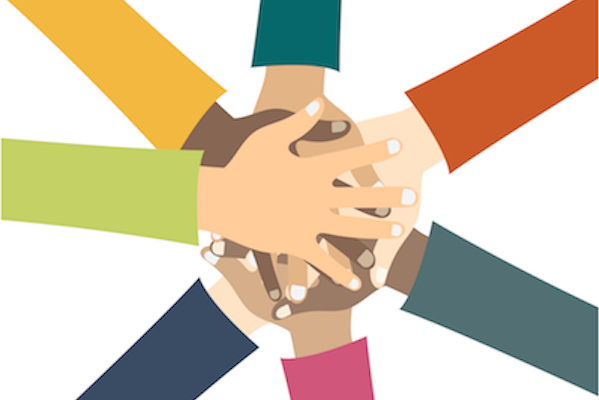
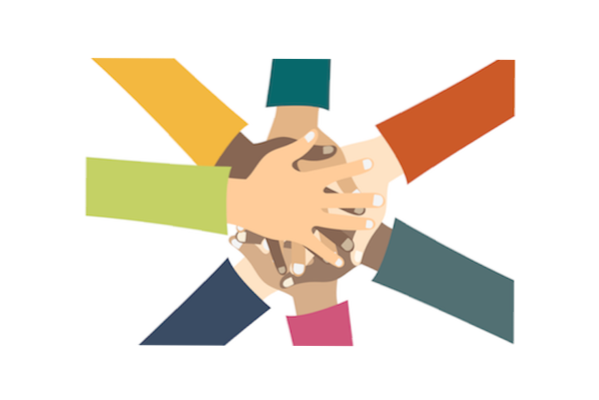
line breaks + networking image change

diff --git a/index.html b/index.html
@@ -20,8 +20,8 @@
 <script src="site_libs/bootstrap-3.3.5/shim/html5shiv.min.js"></script>
 <script src="site_libs/bootstrap-3.3.5/shim/respond.min.js"></script>
 <script src="site_libs/navigation-1.1/tabsets.js"></script>
-<link href="site_libs/highlightjs-1.1/textmate.css" rel="stylesheet" />
-<script src="site_libs/highlightjs-1.1/highlight.js"></script>
+<link href="site_libs/highlightjs-9.12.0/textmate.css" rel="stylesheet" />
+<script src="site_libs/highlightjs-9.12.0/highlight.js"></script>
 
 <style type="text/css">code{white-space: pre;}</style>
 <style type="text/css">
@@ -30,10 +30,12 @@
   }
 </style>
 <script type="text/javascript">
-if (window.hljs && document.readyState && document.readyState === "complete") {
-   window.setTimeout(function() {
-      hljs.initHighlighting();
-   }, 0);
+if (window.hljs) {
+  hljs.configure({languages: []});
+  hljs.initHighlightingOnLoad();
+  if (document.readyState && document.readyState === "complete") {
+    window.setTimeout(function() { hljs.initHighlighting(); }, 0);
+  }
 }
 </script>
 
@@ -238,11 +240,13 @@ $(document).ready(function () {
 <img src="img/index/04_index.png" width="100%"/>
 </div>
 </div>
+<hr />
 <center>
 <h1>
 <strong> Our approach </strong>
 </h1>
 </center>
+<hr />
 <p></br></p>
 <div class="row">
 <div class="col-sm-6">

diff --git a/site_libs/navigation-1.1/sourceembed.js b/site_libs/navigation-1.1/sourceembed.js
@@ -1,9 +1,12 @@
 
-
 window.initializeSourceEmbed = function(filename) {
   $("#rmd-download-source").click(function() {
-    var src = window.atob($("#rmd-source-code").html());
-    var blob = new Blob([src], {type: "text/x-r-markdown"});
-    saveAs(blob, filename);
+    var src = $("#rmd-source-code").html();
+    var a = document.createElement('a');
+    a.href = "data:text/x-r-markdown;base64," + src;
+    a.download = filename;
+    document.body.appendChild(a);
+    a.click();
+    document.body.removeChild(a);
   });
 };
